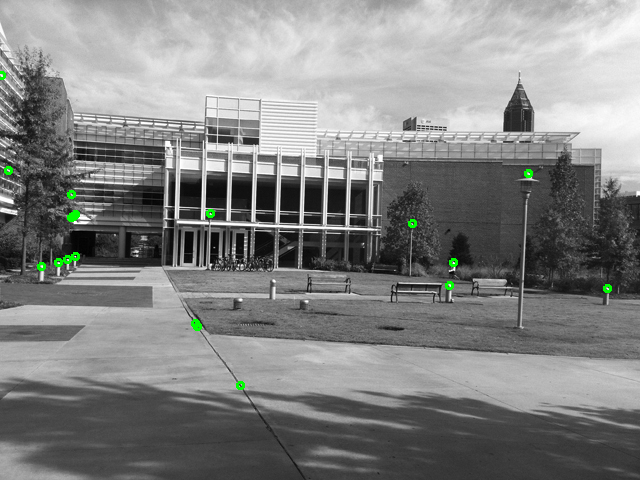
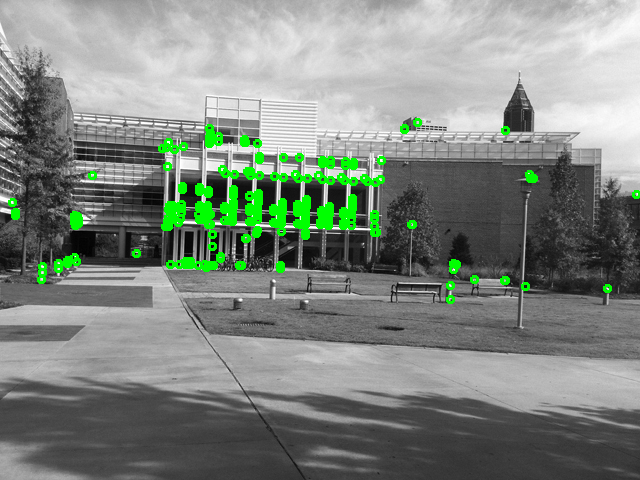
changed code for question 1

diff --git a/ps5_python_Kinneer_Jared/ps5.py b/ps5_python_Kinneer_Jared/ps5.py
@@ -3,34 +3,7 @@ import cv2
 import scipy
 
 #1a
-def compute_grad_X(img, kernel_size):
-    kernel = np.zeros((1,kernel_size))
-    kernel[0, kernel_size // 2 - 1] = -1
-    kernel[0, kernel_size // 2 + 1] = 1
-    
-    grad_x = np.zeros_like(img, dtype=float)
-    
-    for i in range(img.shape[0]):
-        grad_x[i, :] = np.convolve(img[i, :], kernel.flatten(), mode='same')
-        
-    grad_x = ((grad_x - 128)/128)*127
-    return grad_x
-
-def compute_grad_y(img, kernel_size):
-    kernel = np.zeros((1,kernel_size))
-    kernel[0, kernel_size // 2 - 1] = -1
-    kernel[0, kernel_size // 2 + 1] = 1
-    
-    grad_y = np.zeros_like(img, dtype=float)
-    
-    for i in range(img.shape[1]):
-        grad_y[:, i] = np.convolve(img[:, i], kernel.flatten(), mode='same')
-        
-    grad_y = ((grad_y - 128)/128)*127
-    
-    return grad_y
-
-def new_grad(img):
+def compute_grad(img):
     kernel_x = np.array([[-1, 0, 1], [-2, 0, 2], [-1, 0, 1]])
     kernel_y = np.array([[-1, -2, -1], [0, 0, 0], [1, 2, 1]])
 
@@ -55,17 +28,14 @@ def new_grad(img):
 transA = cv2.imread("./input/transA.jpg",cv2.IMREAD_GRAYSCALE)
 simA = cv2.imread("./input/simA.jpg",cv2.IMREAD_GRAYSCALE)
 
-grad_x_transA = compute_grad_X(transA, 3)
-
-grad_y_transA = compute_grad_y(transA, 3)
+grad_x_transA , grad_y_transA = compute_grad(transA)
 
 final_trans = np.hstack((grad_x_transA, grad_y_transA))
 
-grad_x_simA = compute_grad_X(simA, 3)
-grad_y_simA = compute_grad_y(simA, 3)
+grad_x_simA , grad_y_simA = compute_grad(simA)
 final_sim = np.hstack((grad_x_simA, grad_y_simA))
-# cv2.imwrite("./output/ps5-1-a-1.png", final_trans)
-# cv2.imwrite("./output/ps5-1-a-2.png", final_sim)
+cv2.imwrite("./output/ps5-1-a-1.png", final_trans)
+cv2.imwrite("./output/ps5-1-a-2.png", final_sim)
 
 #1b
 def harris_value(grad_x, grad_y, window_size, alpha):
@@ -80,56 +50,46 @@ def harris_value(grad_x, grad_y, window_size, alpha):
     determinant = (Sx2 * Sy2) - (Sxy**2)
     trace = Sx2 + Sy2
     harris = determinant - (alpha * (trace**2))
-    #harris = ((harris - harris.min()) * (1/(harris.max() - harris.min()) * 255)).astype('uint8')
+    harris = ((harris - harris.min()) * (1/(harris.max() - harris.min()) * 255)).astype('uint8')
     return harris
 
-def non_maximal_seppression(image, window_size = 3, threshold = .01):
-    new_threshold = threshold*255
+def non_maximal_suppression(image, window_size = 3, threshold_percent = .01):
+    threshold = threshold_percent*np.max(image)
     suppressed = image.copy()
     z = window_size//2
+    count_suppressed = 0
     for i in range(z, image.shape[0] - z):
         for j in range(z, image.shape[1] - z):
             window = suppressed[i - z:i + z + 1, j - z: j + z + 1]
             
-            if suppressed[i, j] < np.max(window) or suppressed[i,j] < new_threshold:
+            
+            if suppressed[i, j] < np.max(window) or suppressed[i,j] < threshold:
                 suppressed[i,j] = 0
+                count_suppressed += 1
                 
     return suppressed
 
-harris_transA = harris_value(grad_x_transA, grad_y_transA, 3, .04)
-# cv2.imshow("original harris",harris_transA)
-# cv2.waitKey(0)
-# cv2.destroyAllWindows()
-suppressed = non_maximal_seppression(harris_transA)
-# cv2.imshow("original harris thats been suppressed",suppressed)
-# cv2.waitKey(0)
-# cv2.destroyAllWindows()
-harris_simA = harris_value(grad_x_simA, grad_y_simA, 3, .04)
+harris_transA = harris_value(grad_x_transA, grad_y_transA, 5, .04)
+harris_simA = harris_value(grad_x_simA, grad_y_simA, 5, .04)
 
 #gradients and harris values of transB and simB
 transB = cv2.imread("./input/transB.jpg",cv2.IMREAD_GRAYSCALE)
 simB = cv2.imread("./input/simB.jpg",cv2.IMREAD_GRAYSCALE)
 
-grad_x_transB = compute_grad_X(transB, 3)
-grad_y_transB = compute_grad_y(transB, 3)
+grad_x_transB , grad_y_transB = compute_grad(transB)
+grad_x_simB , grad_y_simB = compute_grad(simB)
 
-grad_x_simB = compute_grad_X(simB, 3)
-grad_y_simB = compute_grad_y(simB, 3)
-
-harris_transB = harris_value(grad_x_transB, grad_y_transB, 3, .04)
-harris_simB = harris_value(grad_x_simB, grad_y_simB, 3, .04)
-# cv2.imwrite("./output/ps5-1-b-1.png", harris_transA)
-# cv2.imwrite("./output/ps5-1-b-3.png", harris_simA)
-# cv2.imwrite("./output/ps5-1-b-2.png", harris_transB)
-# cv2.imwrite("./output/ps5-1-b-4.png", harris_simB)
+harris_transB = harris_value(grad_x_transB, grad_y_transB, 5, .04)
+harris_simB = harris_value(grad_x_simB, grad_y_simB, 5, .04)
+cv2.imwrite("./output/ps5-1-b-1.png", harris_transA)
+cv2.imwrite("./output/ps5-1-b-3.png", harris_simA)
+cv2.imwrite("./output/ps5-1-b-2.png", harris_transB)
+cv2.imwrite("./output/ps5-1-b-4.png", harris_simB)
 
 #1c
 def highlight_corners(harris_image, window_size=3, threshold_percent = .01):
-    max_ = np.max(harris_image)
-    threshold = np.max(harris_image)*threshold_percent
-    
+    threshold = np.max(harris_image) * threshold_percent
     harris = harris_image.copy()
-    harris[harris_image < threshold] = 0
     
     z = window_size//2
     
@@ -149,61 +109,29 @@ def draw_corners(corners, output_image):
     for pair in corners:
         cv2.circle(output_image, (pair[1], pair[0]), 3, (0,255,0), 2)
   
-  
-blank_image = cv2.imread("./input/transA.jpg", cv2.IMREAD_GRAYSCALE)
-color_image = cv2.imread("./input/transA.jpg")
-grad_x, grad_y = new_grad(blank_image)
-new_harris = harris_value(grad_x, grad_y, 3, .04)
-cv2.imshow('harris with new gradient', new_harris)
-cv2.waitKey(0)
-cv2.destroyAllWindows()
-cv2.imshow('suppressed harris with new gradient', non_maximal_seppression(new_harris, 5, .2))
-cv2.waitKey(0)
-cv2.destroyAllWindows()
-corners = highlight_corners(new_harris)
-suppressed_corners = highlight_corners(non_maximal_seppression(new_harris, 5, .2), .2)
-blank_copy1 = color_image.copy()
-blank_copy2 = color_image.copy()
-draw_corners(corners, blank_copy1)
-cv2.imshow('corners', blank_copy1)
-cv2.waitKey(0)
-cv2.destroyAllWindows()
-draw_corners(suppressed_corners, blank_copy2)
-cv2.imshow('corners', blank_copy2)
-cv2.waitKey(0)
-cv2.destroyAllWindows()
-
-corners_transA = highlight_corners(harris_transA, threshold_percent=.4)
+suppressed_transA = non_maximal_suppression(harris_transA, 5, .1)
+corners_transA = highlight_corners(suppressed_transA, 5, .3)
 highlighted_transA = cv2.imread("./input/transA.jpg")
 draw_corners(corners_transA, highlighted_transA)
-cv2.imshow("transA with corners, original", highlighted_transA)
-cv2.waitKey(0)
-cv2.destroyAllWindows()
+cv2.imwrite("./output/ps5-1-c-1.png", highlighted_transA)
 
-corners_suppressed = highlight_corners(suppressed, threshold_percent=.4)
-s = cv2.imread("./input/transA.jpg")
-draw_corners(corners_suppressed, s)
-cv2.imshow("transA with corners, surpressed", s)
-cv2.waitKey(0)
-cv2.destroyAllWindows()
-
-
-# cv2.imwrite("./output/ps5-1-c-1.png", highlighted_transA)
-
-corners_transB = highlight_corners(harris_transB, threshold_percent=.4)
+suppressed_transB = non_maximal_suppression(harris_transB, 5, .1)
+corners_transB = highlight_corners(suppressed_transB, 5, .3)
 highlighted_transB = cv2.imread("./input/transB.jpg")
 draw_corners(corners_transB, highlighted_transB)
-# cv2.imwrite("./output/ps5-1-c-2.png", highlighted_transB)
+cv2.imwrite("./output/ps5-1-c-2.png", highlighted_transB)
 
-corners_simA = highlight_corners(harris_simA, threshold_percent=.4)
+suppressed_simA = non_maximal_suppression(harris_simA, 5, .1)
+corners_simA = highlight_corners(suppressed_simA, 5, .3)
 highlighted_simA = cv2.imread("./input/simA.jpg")
 draw_corners(corners_simA, highlighted_simA)
-# cv2.imwrite("./output/ps5-1-c-3.png", highlighted_simA)
+cv2.imwrite("./output/ps5-1-c-3.png", highlighted_simA)
 
-corners_simB = highlight_corners(harris_simB, threshold_percent=.55)
+suppressed_simB = non_maximal_suppression(harris_simB, 5, .1)
+corners_simB = highlight_corners(suppressed_simB, 5, .3)
 highlighted_simB = cv2.imread("./input/simB.jpg")
 draw_corners(corners_simB, highlighted_simB)
-# cv2.imwrite("./output/ps5-1-c-4.png", highlighted_simB)
+cv2.imwrite("./output/ps5-1-c-4.png", highlighted_simB)
 
 #2a
 def compute_angle(grad_x, grad_y):
